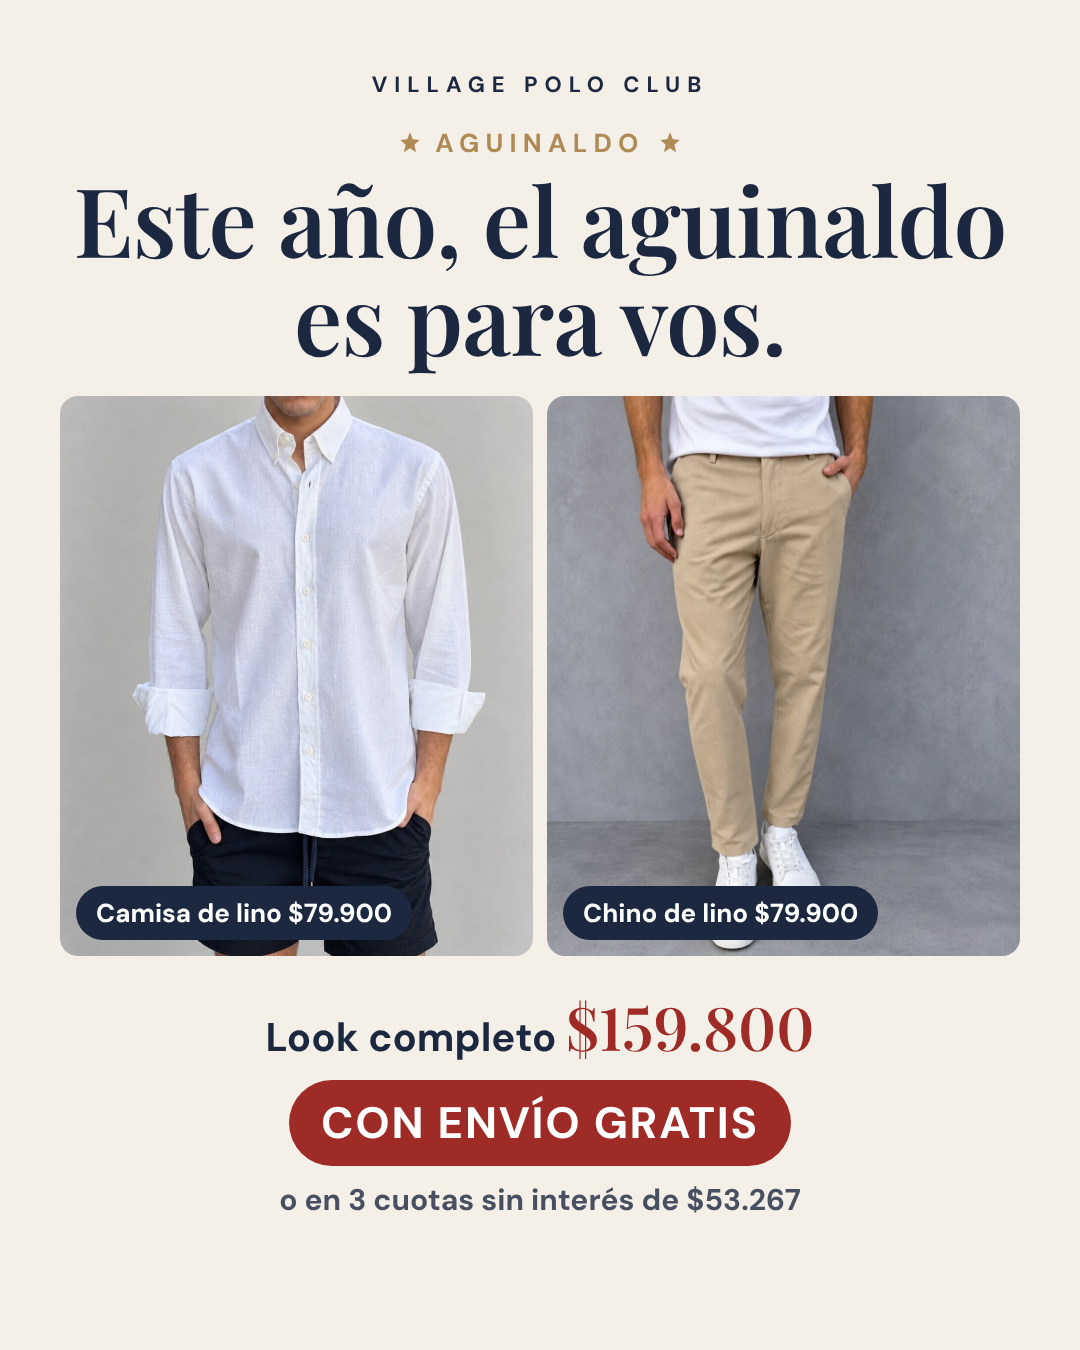
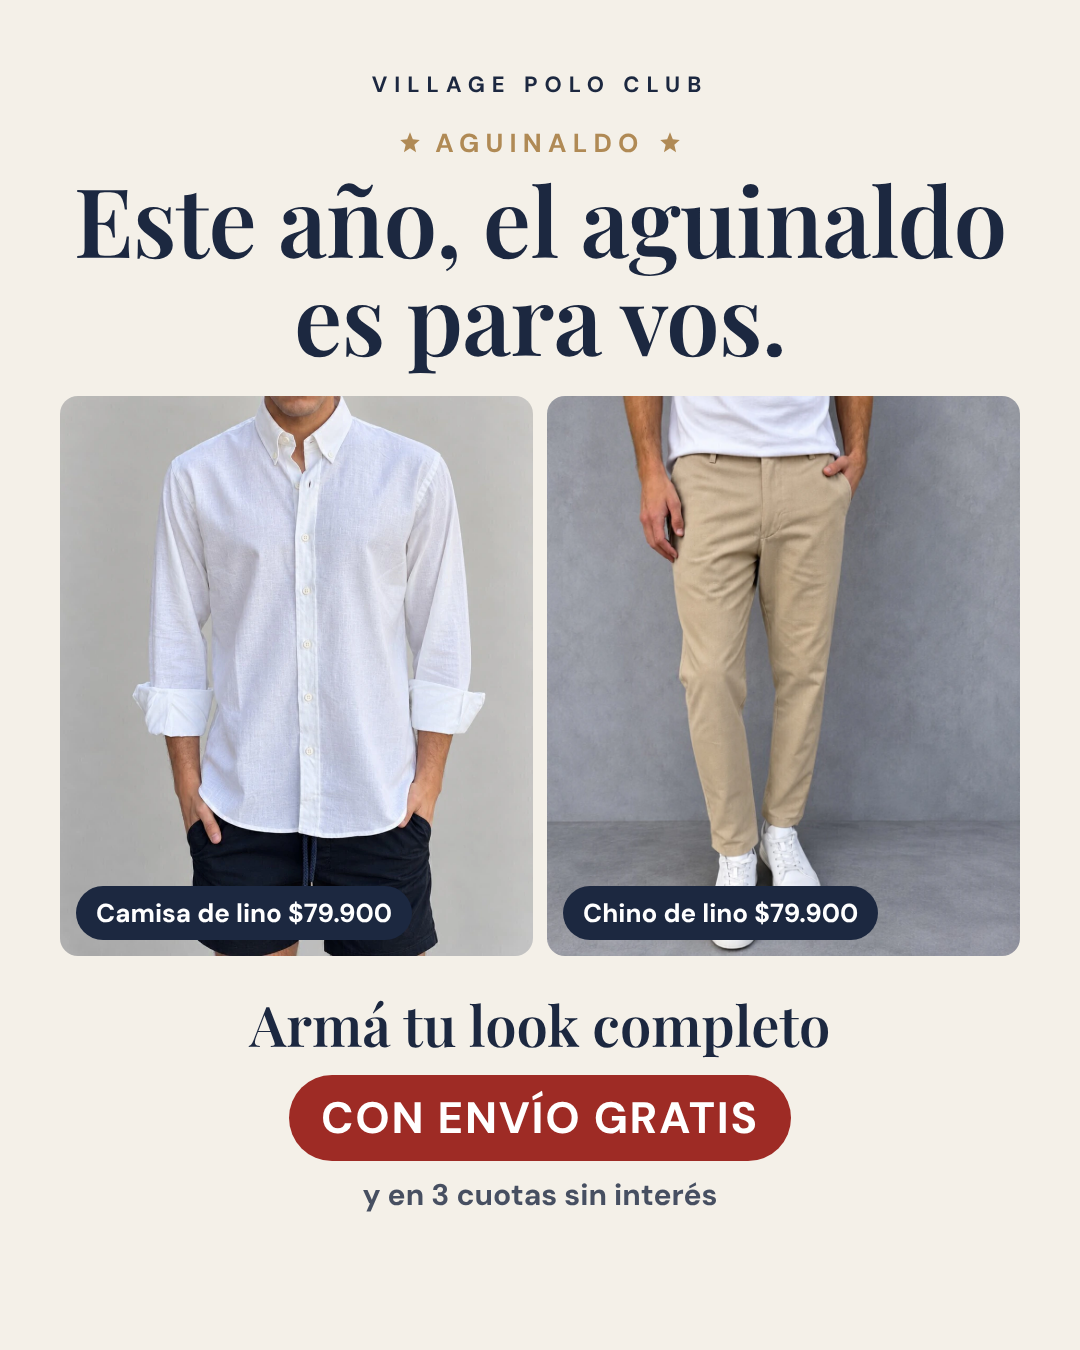
Village: F9 aguinaldo sin el precio total del look
Claude-Session: https://claude.ai/code/session_01BwB1NJ45564dBMrvfqcTE9

Changed region(s): [[0.2444, 0.7467, 0.7639, 0.9022]]

diff --git a/village-polo-club/placas/fiestas/fuente/fiestas.py b/village-polo-club/placas/fiestas/fuente/fiestas.py
@@ -26,7 +26,7 @@ def f9(fmt):
 <div style="display:grid;grid-template-columns:1fr 1fr;gap:14px;height:{gh}px">
 <div class="box"><img class="ph" src="camisa-lino-algodon-blanco-1.webp" style="object-view-box:inset(22% 6% 0 6%)"><span class="tag">Camisa de lino $79.900</span></div>
 <div class="box"><img class="ph" src="pantalon-chino-lino-camel-claro-1.webp"><span class="tag">Chino de lino $79.900</span></div></div>
-<div class="tot">Look completo <b>$159.800</b></div><div class="cuo">CON ENVÍO GRATIS</div><div class="cu2">o en 3 cuotas sin interés de $53.267</div></div>"""
+<div class="tot" style="font-family:'PF';font-weight:600;font-size:56px">Armá tu look completo</div><div class="cuo">CON ENVÍO GRATIS</div><div class="cu2">y en 3 cuotas sin interés</div></div>"""
     extra=BASE+f""".tag{{position:absolute;left:16px;bottom:16px;background:{NAVY};color:#fff;font-weight:700;font-size:26px;padding:10px 20px;border-radius:40px}}
 .tot{{font-size:40px;font-weight:700;color:{NAVY};margin-top:30px}}.tot b{{font-family:'PF';font-size:60px;color:{RED}}}
 .cu2{{font-size:30px;font-weight:700;color:{NAVY};margin-top:14px;opacity:.8}}
